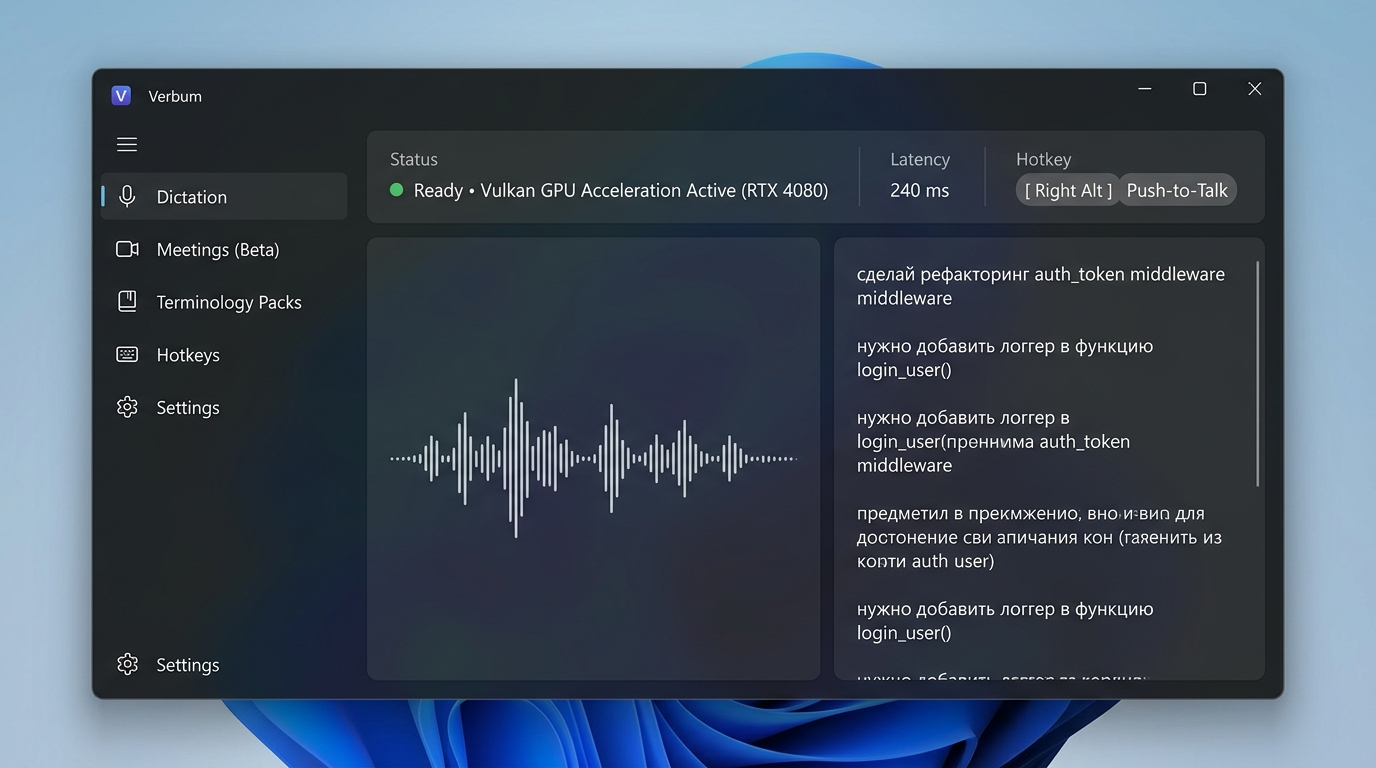
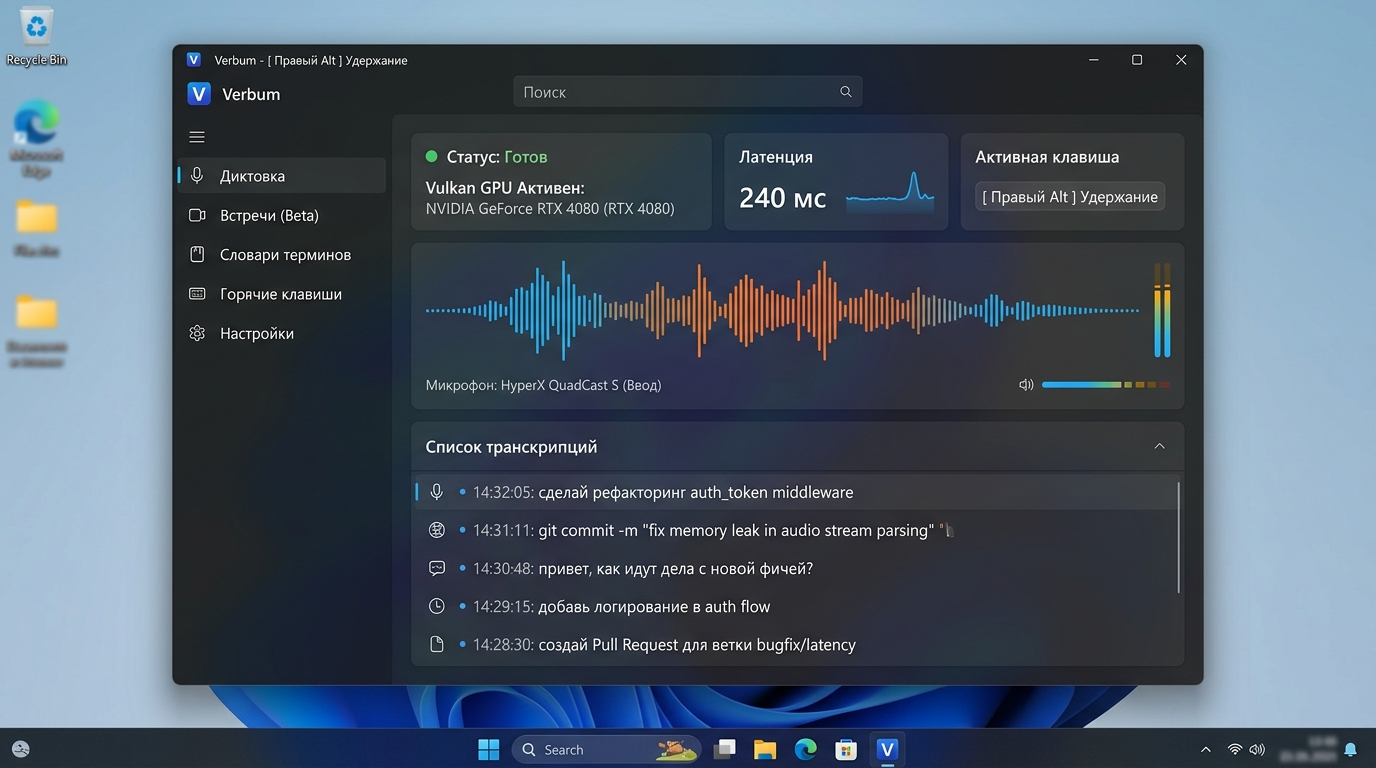
release(verbum): publish Verbum v1.2.0 with verified SHA256 and installer link

diff --git a/verbum/index.html b/verbum/index.html
@@ -1105,12 +1105,18 @@
       });
     }
 
-    // Initialize stored language preference
+    // Initialize stored language preference (default: ru)
     (function() {
       try {
         const stored = localStorage.getItem('verbum_lang');
-        if (stored === 'en') { setLang('en'); }
-      } catch(e) {}
+        if (stored === 'en') {
+          setLang('en');
+        } else {
+          setLang('ru');
+        }
+      } catch(e) {
+        setLang('ru');
+      }
     })();
   </script>
 </body>
